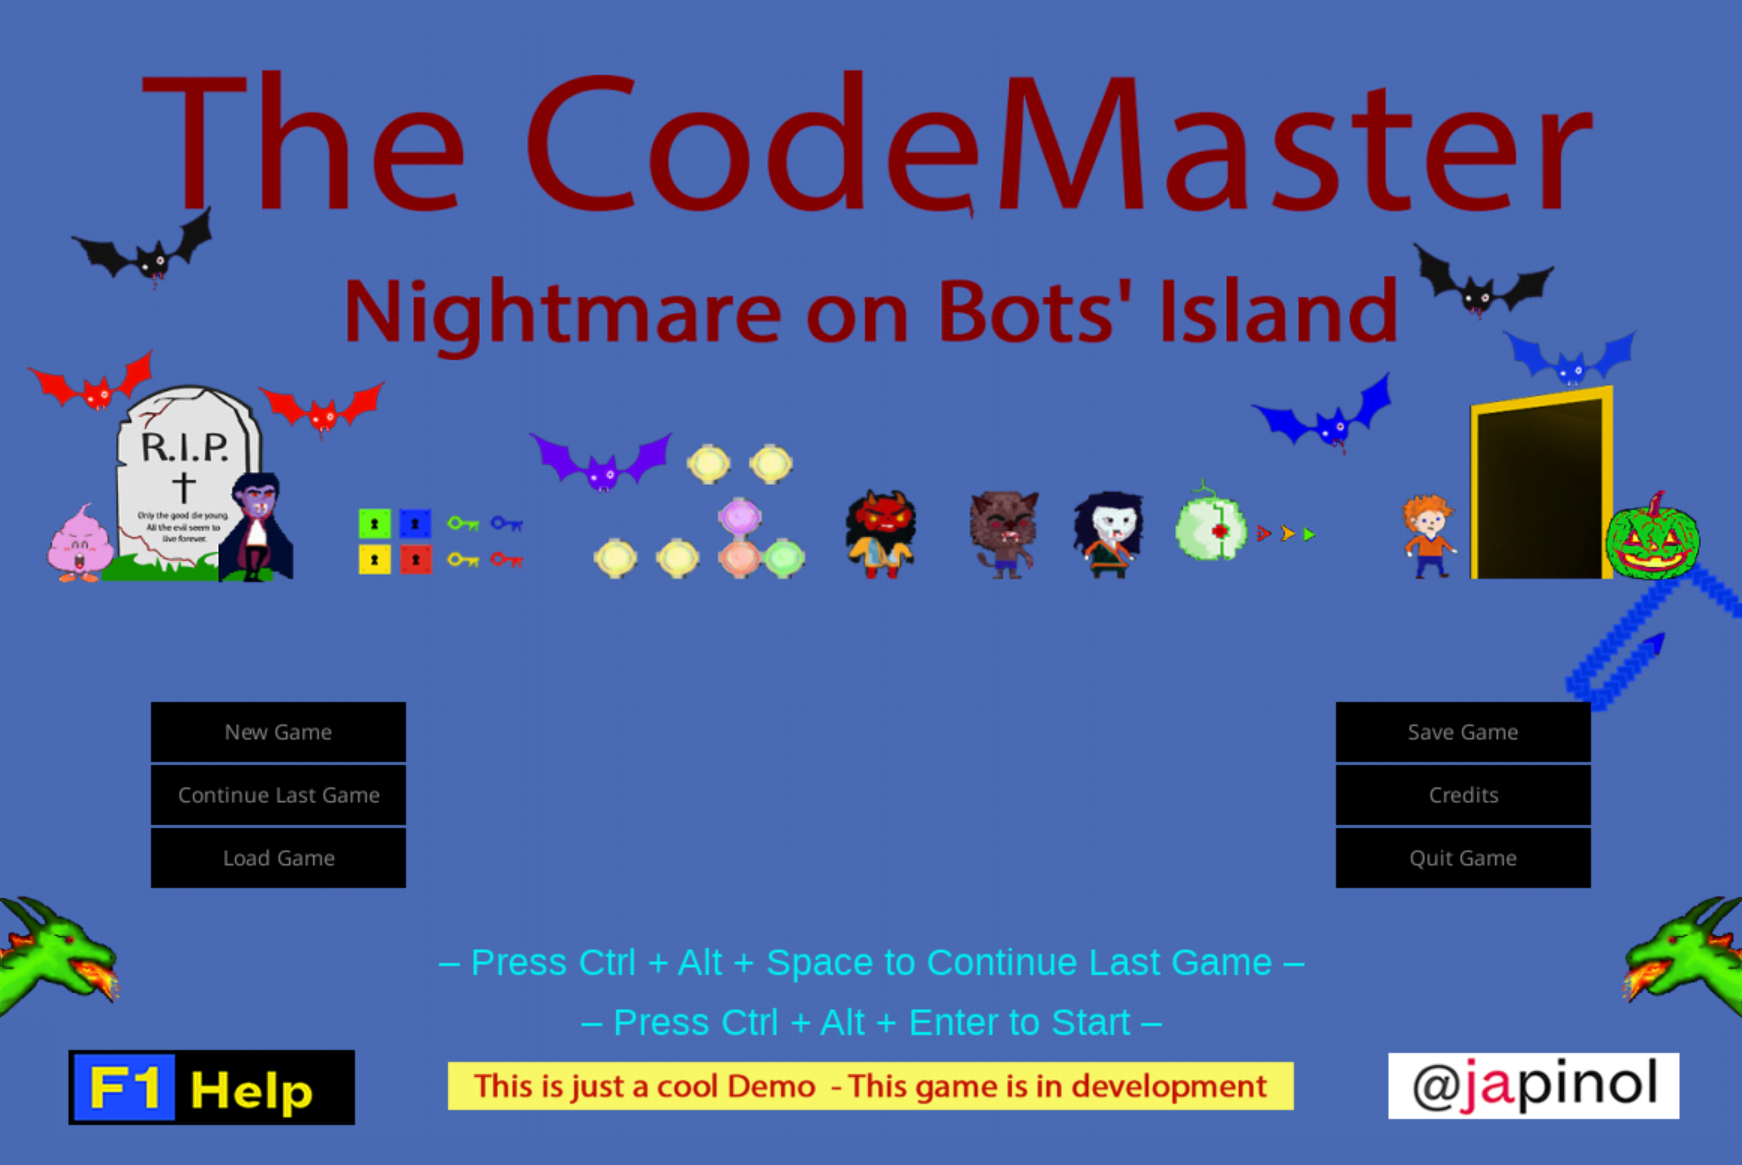
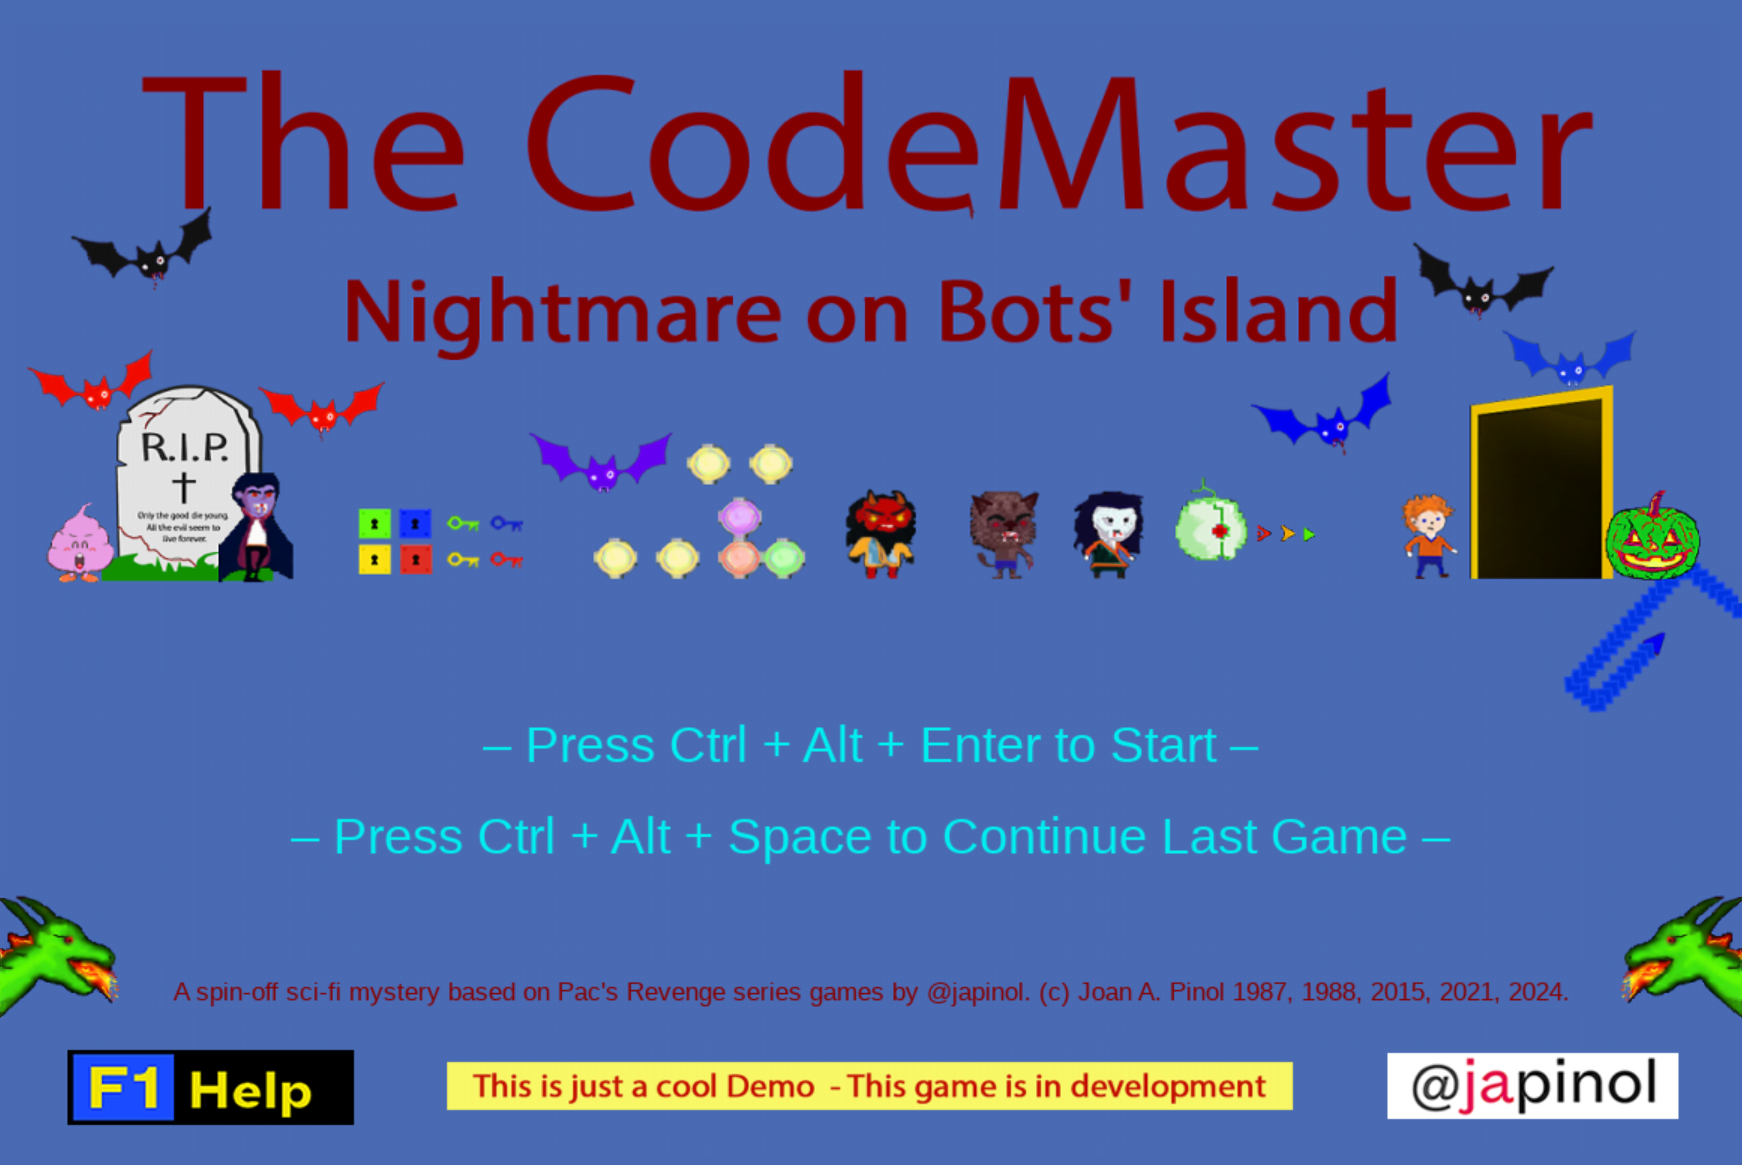
[IMP] Improve documentation and screenshots.

diff --git a/codemaster/screen/screen_entry_point.py b/codemaster/screen/screen_entry_point.py
@@ -4,6 +4,7 @@ __author__ = 'Joan A. Pinol  (japinol)'
 from codemaster.tools.utils.colors import Color
 from codemaster.tools.utils import utils_graphics as libg_jp
 from codemaster.resources import Resource
+from codemaster.config.constants import APP_NAME_DESC
 from codemaster.config.settings import Settings
 from codemaster.screen import screen
 
@@ -81,6 +82,11 @@ class StartGame(screen.StartGame):
                 114 * Settings.font_pos_factor_t2 + Settings.screen_height // 1.7,
                 Resource.txt_surfaces, 'game_continue_last_failed', color=Color.RED_DARK,
                 size=int(33*Settings.font_pos_factor_t2), align="center")
+        libg_jp.render_text(
+                APP_NAME_DESC, Settings.screen_width // 2,
+                114 * Settings.font_pos_factor_t2 + Settings.screen_height // 1.38,
+                Resource.txt_surfaces, 'game_copyright_desc', color=Color.RED_DARK,
+                size=int(19*Settings.font_pos_factor_t2), align="center")
 
     def _draw(self):
         super()._draw()
@@ -103,6 +109,7 @@ class StartGame(screen.StartGame):
             Resource.images['seal_just_a_demo'],
             (Settings.screen_width // 2 - Resource.images['seal_just_a_demo'].get_width() // 2,
              Settings.screen_height // 1.05 - Resource.images['seal_just_a_demo'].get_height() // 1.05))
+        self.game.screen.blit(*Resource.txt_surfaces['game_copyright_desc'])
         self.game.screen.blit(*Resource.txt_surfaces['game_start'])
 
         if self.game.is_persist_data:

diff --git a/codemaster/config/constants.py b/codemaster/config/constants.py
@@ -89,7 +89,8 @@ APP_NAME = f"The CodeMaster v. {version.get_version()}"
 APP_NAME_SHORT = "The CodeMaster"
 APP_NAME_LONG = "The CodeMaster. Nightmare on Bots' Island."
 APP_NAME_DESC = "A spin-off sci-fi mystery based on " \
-                "Pac's Revenge series games by @japinol (c) 1987, 1988, 2015, 2021, 2024."
+                "Pac's Revenge series games by @japinol. "\
+                "(c) Joan A. Pinol 1987, 1988, 2015, 2021, 2024."
 APP_WEBSITE_URL = "https://github.com/japinol7/the-codemaster"
 
 LOG_FILE = os.path.join('logs', f"log_{datetime.now().strftime('%Y-%m-%d_%H_%M_%S_%f')}.log")

diff --git a/codemaster/resources.py b/codemaster/resources.py
@@ -52,6 +52,7 @@ class Resource:
         'game_over': None, 'game_over_2': None,
         'press_intro_to_continue': None, 'press_intro_to_continue_2': None,
         'game_start': None, 'game_continue_last': None,
+        'game_copyright_desc': None,
         'game_continue_last_failed': None,
         'level_no': None, 'congrats': None, 'congrats_2': None,
         'you_have_beaten_the_game': None, 'you_have_beaten_the_game_2': None,

diff --git a/README.md b/README.md
@@ -11,8 +11,8 @@
 	author_gitHub: japinol7
 	author_twitter: @japinol
 	description: A spin-off sci-fi mystery based on Pac's Revenge 
-      series games by @japinol  (c) 1987, 1988, 2015, 2021, 2024.
-    Pixel art graphics (c) 1987, 1988, 2015, 2021, 2024.
+      series games by @japinol (c) Joan A. Pinol 1987, 1988, 2015, 2021, 2024.
+    Pixel art graphics (c) Joan A. Pinol 1987, 1988, 2015, 2021, 2024.
 <br />
 
 	Dependencies: pygame-ce.
